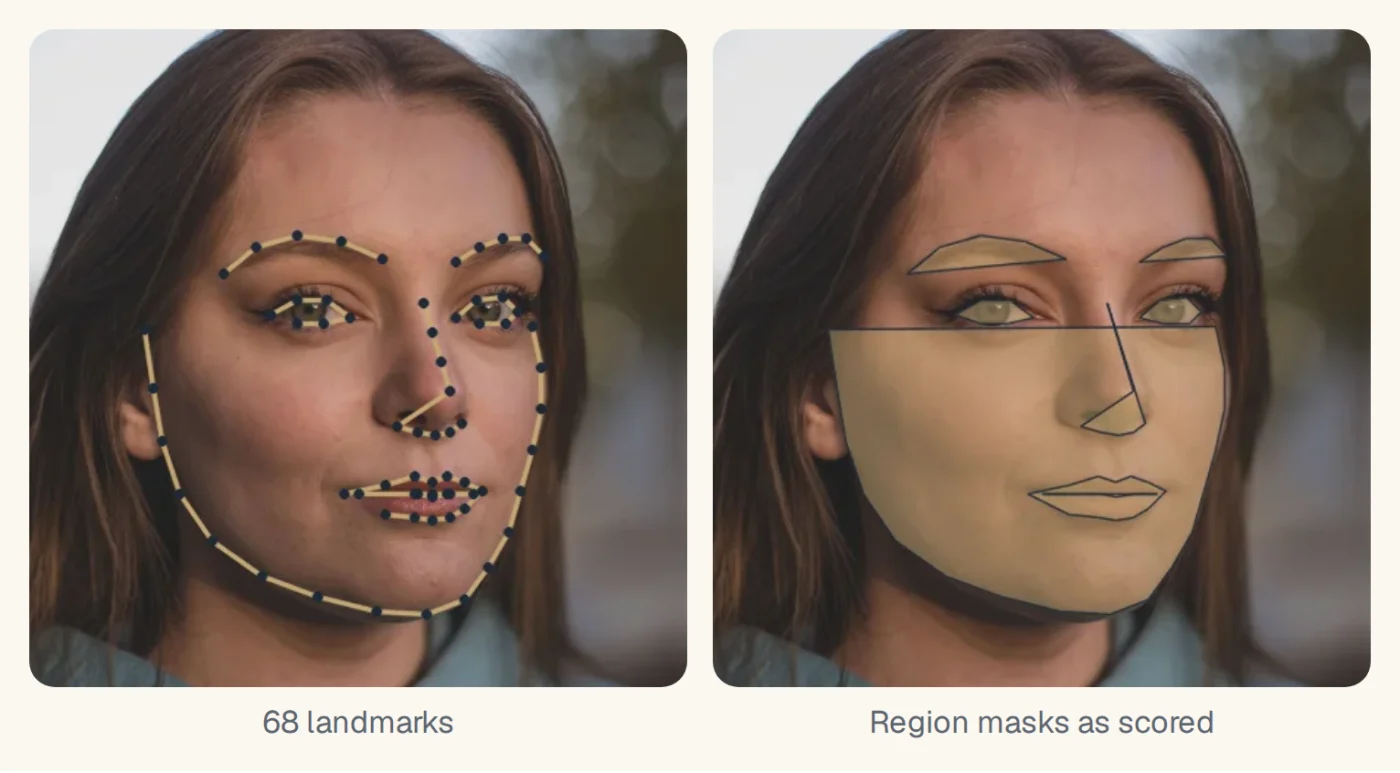
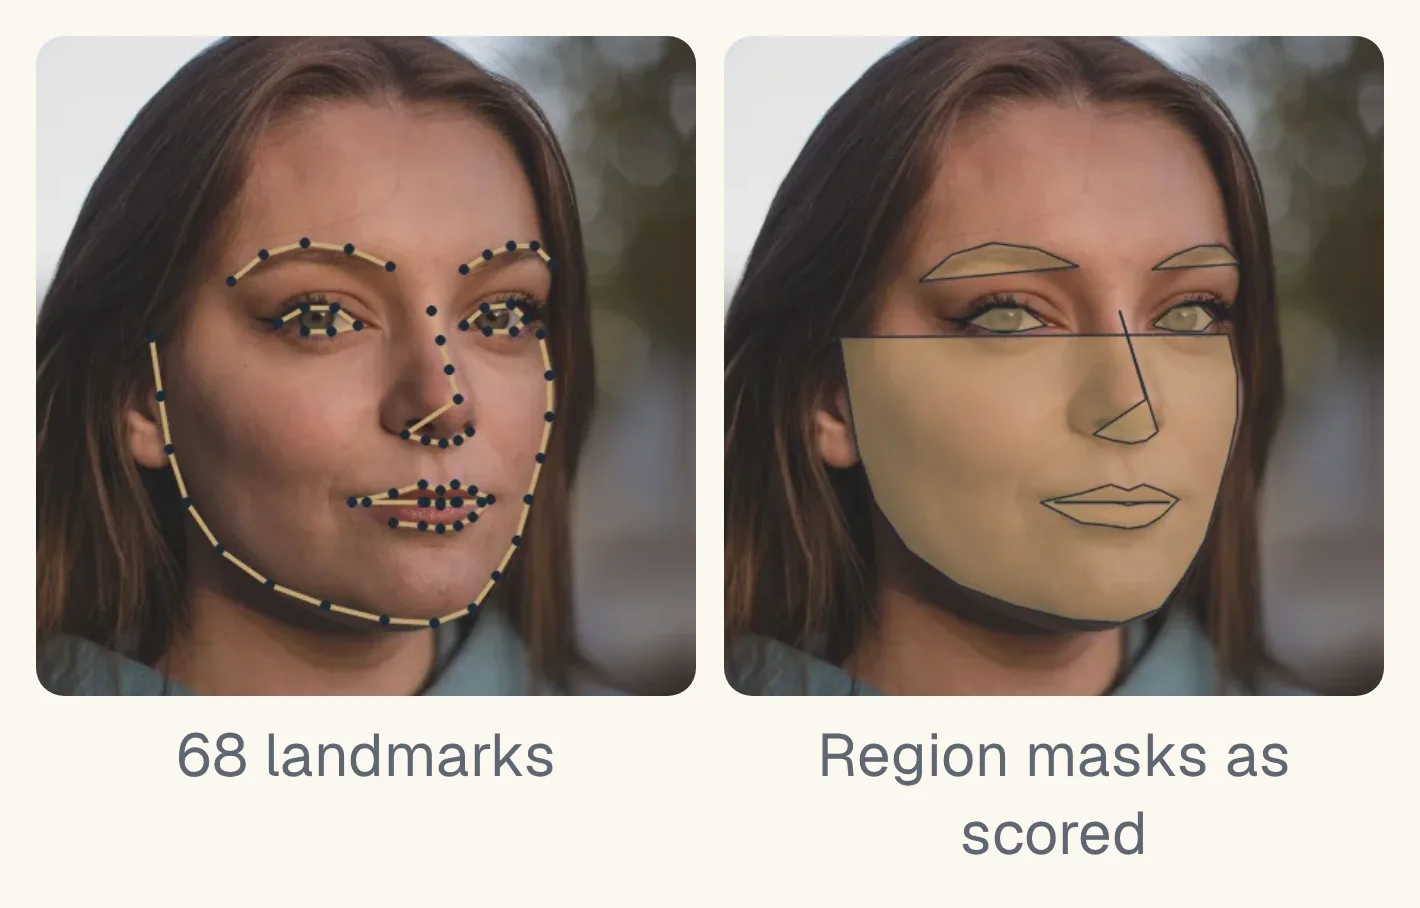
README: 2x2 figure grids with readable captions on phones

diff --git a/README.md b/README.md
@@ -4,7 +4,7 @@
 
 [Project page](https://xdfdet.mertkayacs.com) ([Türkçe](https://xdfdet.mertkayacs.com/tr/), [Deutsch](https://xdfdet.mertkayacs.com/de/)) · [Models on Hugging Face](https://huggingface.co/mertkayacs/xdfdet) · [Kaggle](https://www.kaggle.com/models/mertilovski/xdfdet) · [Thesis](https://doi.org/10.5281/zenodo.18998566)
 
-<img src="docs/figures/strip-gradcam.webp" alt="Grad-CAM of four setups on the same real portrait">
+<img width="520" src="docs/figures/strip-gradcam.webp" alt="Grad-CAM of four setups on the same real portrait">
 
 *Grad-CAM of four setups on the same real portrait. All four call it real, but they look at different places: the best setup focuses on the eyes and eyebrows, and black-fill cutout alone barely activates.*
 
@@ -53,19 +53,19 @@ Or open [`notebooks/quickstart.ipynb`](notebooks/quickstart.ipynb) in Colab.
 
 **1. Faces from 2,000 videos.** 1,000 real FaceForensics++ videos, each paired with one manipulated copy. Every face is found, aligned and cropped.
 
-<img src="docs/figures/pair-data.webp" alt="Real and manipulated frame">
+<img width="620" src="docs/figures/pair-data.webp" alt="Real and manipulated frame">
 
 Real and manipulated frame from FaceForensics++ (from the thesis). Four manipulation methods in rotation: FaceSwap, Face2Face, FaceShifter, Deepfakes. MTCNN detection with eye alignment, 12 frames per model input.
 
 **2. Nine training setups.** One EfficientNet-B4 is trained nine times. Only data augmentation and cutout change. Cutout blanks a face region on **fake frames only**; real frames get a small star-shaped blank with the same fill.
 
-<img src="docs/figures/pair-cutout.webp" alt="Cutout on a fake frame and the star on a real frame">
+<img width="620" src="docs/figures/pair-cutout.webp" alt="Cutout on a fake frame and the star on a real frame">
 
 Cutout on a fake frame and the star on a real frame. The idea comes from the winning Deepfake Detection Challenge solution ([Seferbekov, 2020](https://github.com/selimsef/dfdc_deepfake_challenge)). An SSIM map finds where the fake most resembles its real source, and that region is filled with black, white or random pixels. Because real frames carry the same kind of blank, a blank patch alone never means fake, and the model has to use the whole face.
 
 **3. Explaining each decision.** Grad-CAM shows which pixels drove a prediction. It is averaged over frames and measured in eight face regions from 68 landmarks, separately for right and wrong predictions.
 
-<img src="docs/figures/pair-explain.webp" alt="Grad-CAM of the best setup and the eight region masks">
+<img width="620" src="docs/figures/pair-explain.webp" alt="Grad-CAM of the best setup and the eight region masks">
 
 Grad-CAM of the best configuration and the eight region masks.
 
@@ -76,23 +76,23 @@ Every image here except the FaceForensics++ frames is produced by [`scripts/make
 
 **Face detection.** MTCNN detects the face in every frame, aligns it by the eye positions and crops it to 224×224 pixels. Each video keeps 32 frames, of which the model receives 12.
 
-<img src="docs/figures/pipe-detect.webp" alt="Detected face and aligned crop">
+<img width="620" src="docs/figures/pipe-detect.webp" alt="Detected face and aligned crop">
 
 **Facial landmarks.** dlib places 68 landmarks that define the eight regions. The right image shows the masks exactly as scored; the jaw polygon closes across the lower face, so the jaw score also covers the cheeks, nose and mouth.
 
-<img src="docs/figures/pipe-landmarks.webp" alt="Landmarks and region masks">
+<img width="620" src="docs/figures/pipe-landmarks.webp" alt="Landmarks and region masks">
 
 **SSIM difference map.** SSIM compares each fake frame with its real source. Bright areas differ; dark areas are nearly identical. The dark areas are where the fake already resembles the real face, and cutout targets them.
 
-<img src="docs/figures/pipe-ssim.webp" alt="Real frame, SSIM difference, manipulated frame">
+<img width="680" src="docs/figures/pipe-ssim.webp" alt="Real frame, SSIM difference, manipulated frame">
 
 **Cutout.** Applied to the fake frames only: a landmark polygon covering 2 to 5 percent of the frame, over the area SSIM marks as most similar, is filled with black, white or random pixels. Real frames receive a star-shaped cutout with an outer radius of 8 to 16 pixels and the same fill, each with probability 0.5.
 
-<img src="docs/figures/pipe-cutout.webp" alt="Black, white and random fill, and the star">
+<img width="520" src="docs/figures/pipe-cutout.webp" alt="Black, white and random fill, and the star">
 
 **Data augmentation.** Albumentations adds noise, blur, slight color shifts, flips and small rotations. The intense setting applies them four to five times as often as the standard one.
 
-<img src="docs/figures/pipe-augment.webp" alt="Input, standard and intense augmentation">
+<img width="680" src="docs/figures/pipe-augment.webp" alt="Input, standard and intense augmentation">
 
 **Video-level prediction.** EfficientNet-B4 scores each of the 12 frames independently. The video score is the mean of the frame scores, and binary cross-entropy is computed on that mean. Scores below 0.5 are classified as fake.
 
